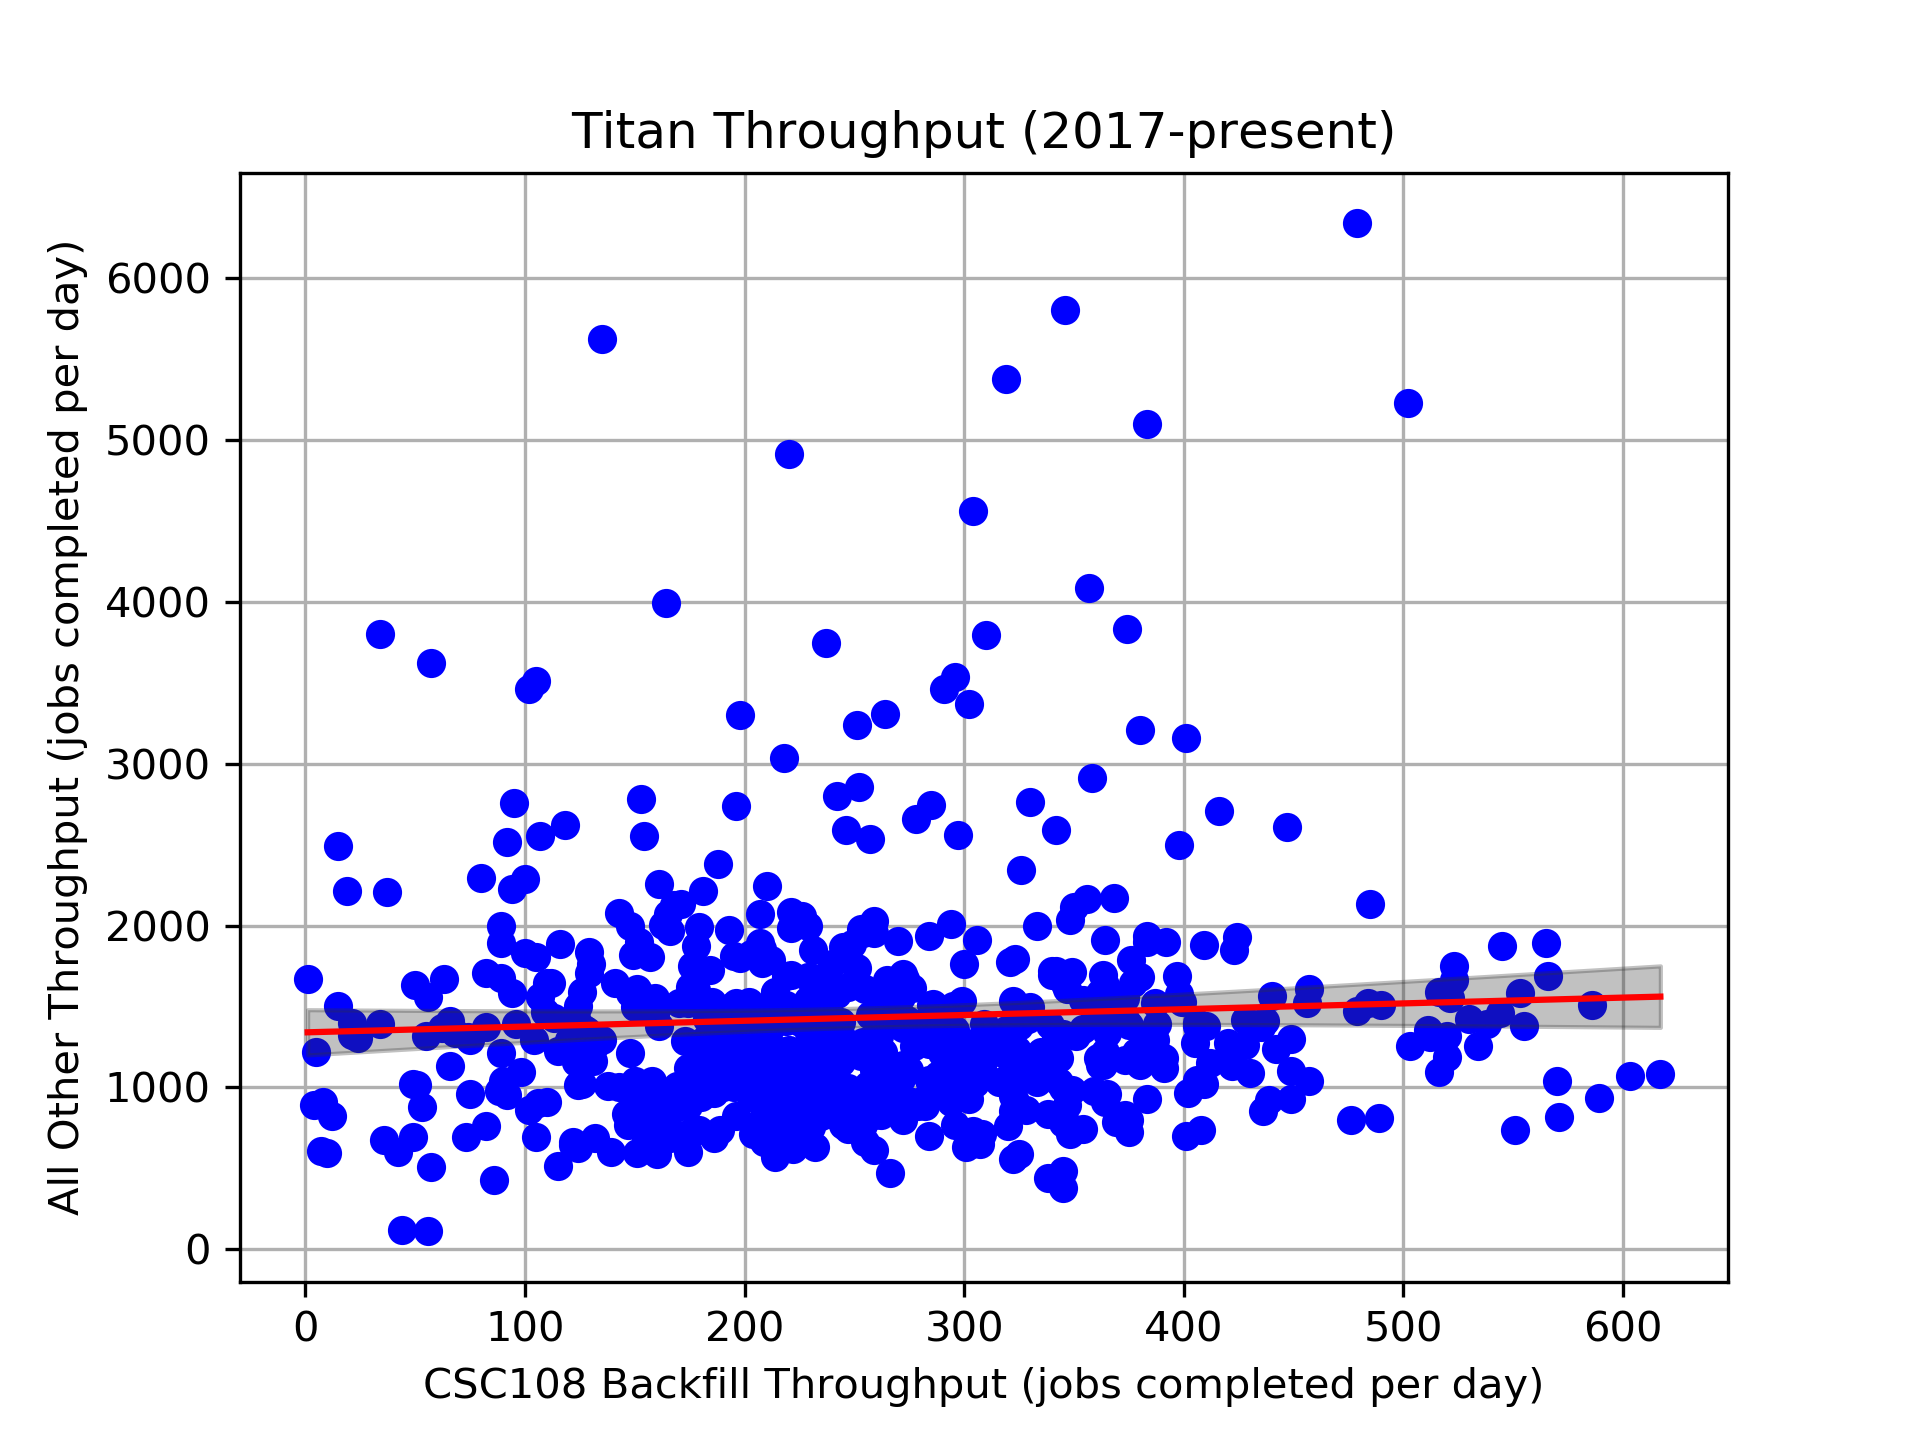
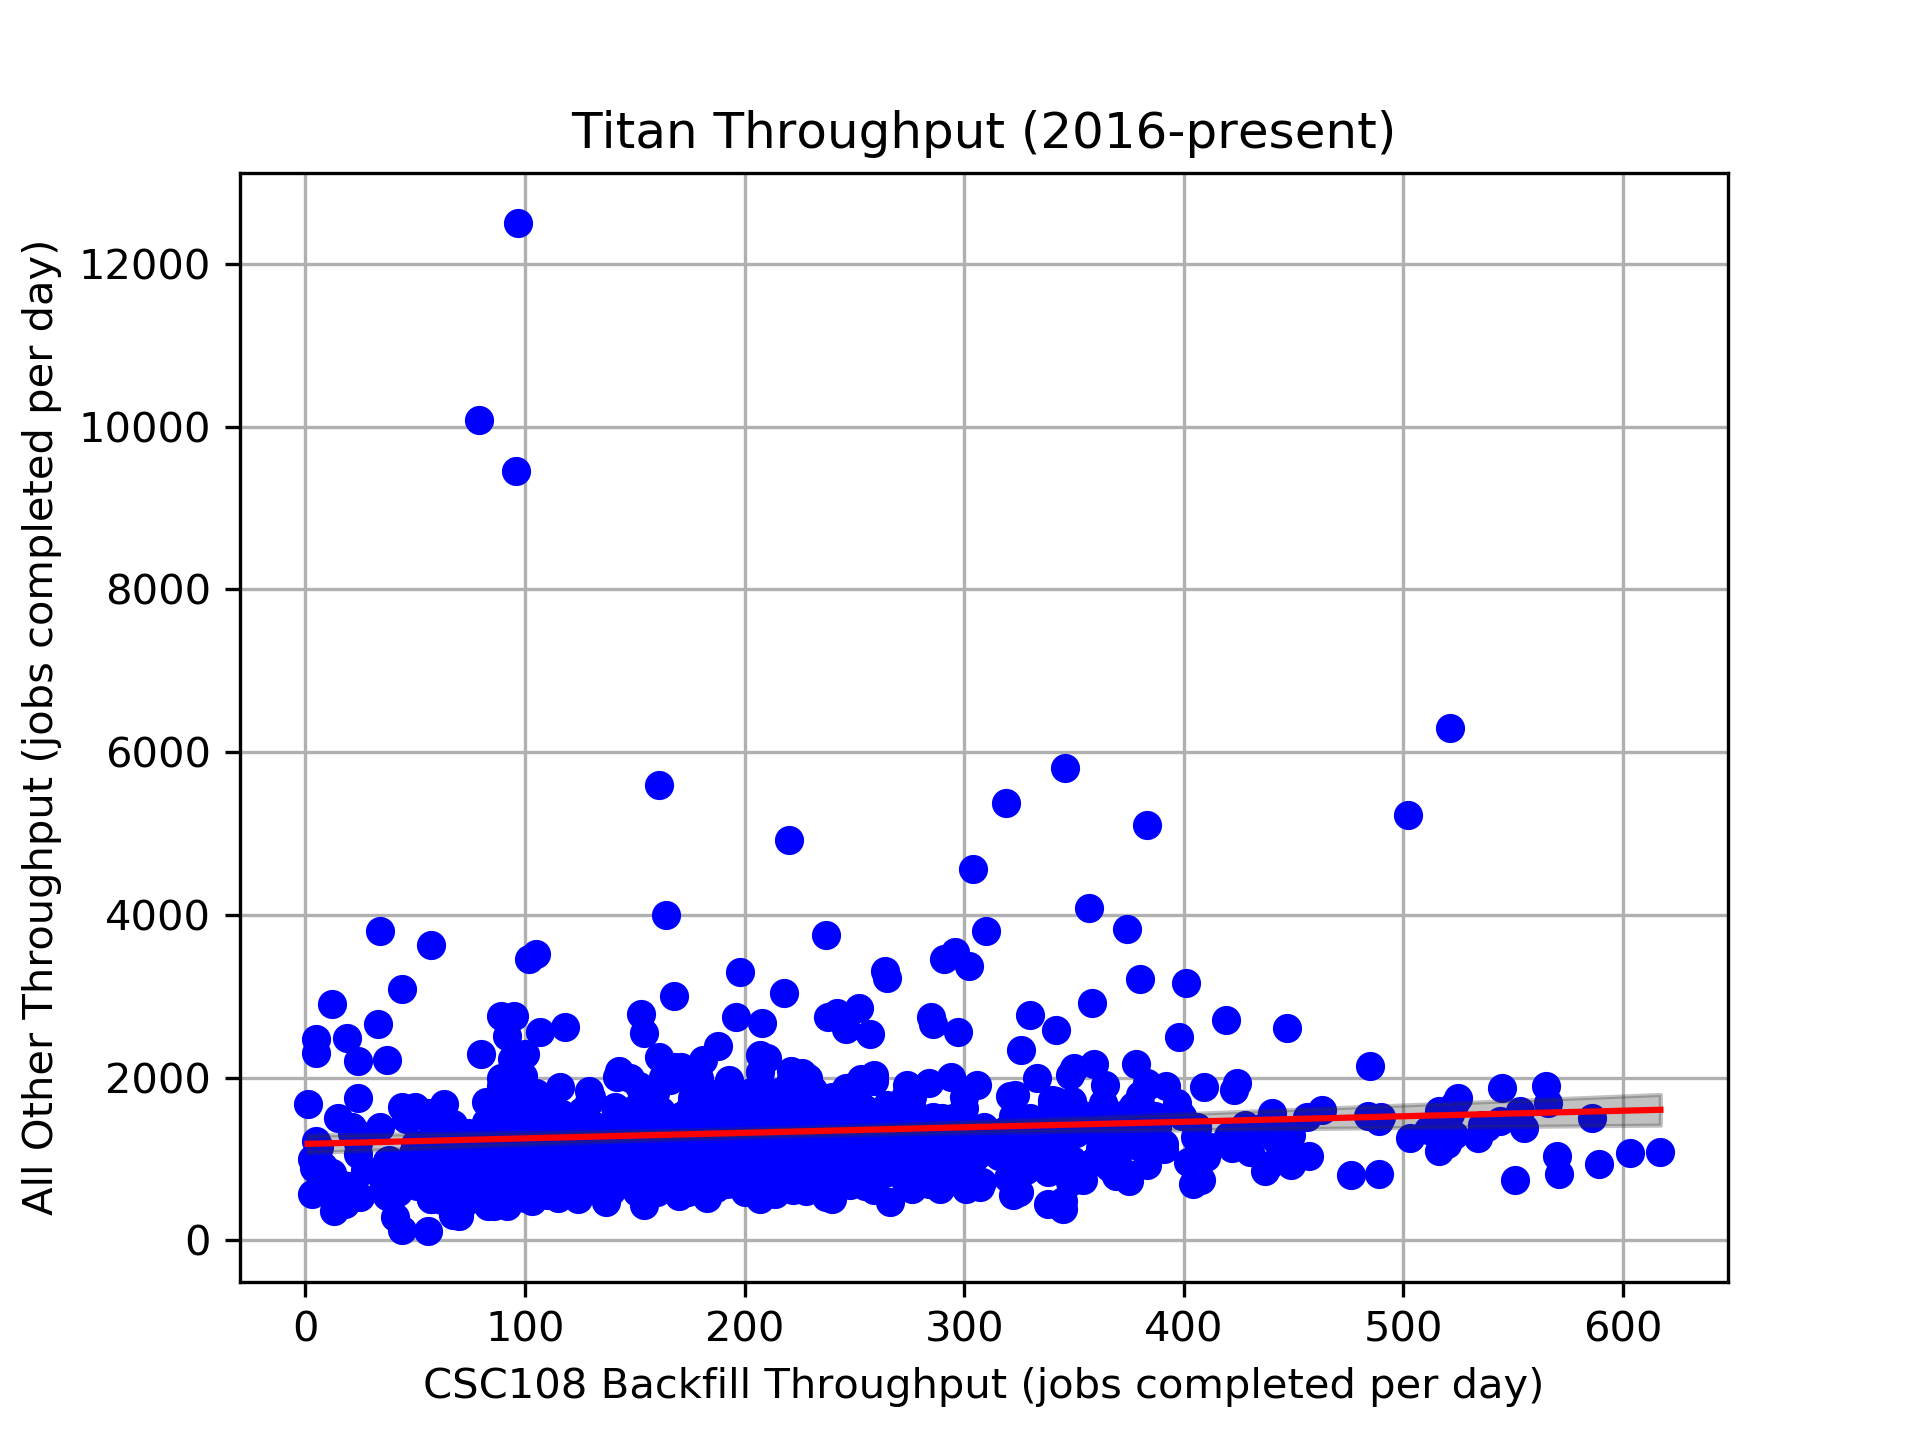
Updates, especially for the "new" 2016 data

diff --git a/performance.tex b/performance.tex
@@ -4,7 +4,7 @@
 %
 %   This is the fourth section of the paper.
 %
-%                                                   ~~ last updated 29 Nov 2018
+%                                                   ~~ last updated 03 Dec 2018
 
 %Availability note: code supporting this section is available at
 %\url{https://github.com/ATLAS-Titan/moab-data}. 
@@ -51,7 +51,7 @@ results from several ongoing studies.
 \caption{This bar plot visualizes the yearly utilization of Titan core hours,
 separated into two categories: utilization of Titan core hours through backfill
 opportunities by CSC108, and all other utilization of core hours on Titan. The
-data for 2018 are incomplete; they cover from January 1, 2018 to September 1,
+data for 2018 are incomplete; they cover from January 1, 2018 to October 15,
 2018.}
 \label{fig:jacks-slide}
 \end{figure*}
@@ -125,19 +125,19 @@ other Python scripts to import these files' sample data into SQLite. These
 tables contain data about the exact state of the queues at given times,
 including active jobs, blocked jobs, eligible jobs, recently completed jobs,
 and system information such as active nodes and available backfill
-opportunities. We then supplemented these live samples with monthly usage data
-and historical job traces obtained from ORNL. The monthly usage data span from
-January 2016 to September 2018 and contain only the total hours available,
-total hours consumed by all projects, and total hours consumed by CSC108. The
-job trace data span from January 2017 to October 2018 and contain only job
-submission time, start time, completion time, requested nodes, and requested
-wall time, for all jobs not due to the PanDA team. Besides CSC108, the PanDA
-team has two other PanDA projects on Titan, which are HEP110 and HEP113, both
-of which use PanDA to submit jobs with the increased priority of their ALCC
-allocations. Thus, traces for the PanDA jobs contain additional fields for
-account name, job name, and user name to distinguish the backfill jobs from the
-``direct mode'' jobs. Finally, we analyzed the SQLite data in Python using the
-well-known Matplotlib, NumPy, and SciPy libraries via Anaconda.
+opportunities. We then supplemented these live samples with daily availability
+data and historical job traces obtained from ORNL. The daily availability data
+span from January 1, 2016 to October 18, 2018 and contain only the total Titan
+core hours that were available each day. The historical job trace data span
+from January 1, 2016 to October 15, 2018 and contain only job submission time,
+start time, completion time, requested nodes, and requested wall time, for all
+jobs not due to the PanDA team. Besides CSC108, the PanDA team has two other
+PanDA projects on Titan, which are HEP110 and HEP113, both of which use PanDA
+to submit jobs with the increased priority of their ALCC allocations. Thus,
+traces for the PanDA jobs contain additional fields for account name, job name,
+and user name to distinguish the backfill jobs from the ``direct mode'' jobs.
+Finally, we analyzed the SQLite data in Python using the well-known Matplotlib,
+NumPy, and SciPy libraries via Anaconda.
 
 %%%%%%%%%%%%%%%%%%%%%%%%%%%%%%%%%%%%%%%%%%%%%%%%%%%%%%%%%%%%%%%%%%%%%%%%%%%%%%%%
 \subsection{Wait Times}
@@ -180,7 +180,11 @@ considering jobs' requested wall times.
 An interesting opportunity arose during July 2018 following the end of a large
 simulation campaign by ATLAS, because CSC108 submitted zero backfill jobs for
 14 consecutive days. For convenience, we have called this the ``dormant
-period''.
+period''. This unusually long dormant period allows comparison of the system
+when CSC108 is running versus the system when CSC108 is completely absent.
+
+CSC108 had consumed an average of 7.5 million Titan core hours every
+weeks during the first six months of 2018.
 
 \textbf{Keep going.}
 
@@ -209,10 +213,10 @@ in Figures~\ref{fig:throughput-all}, \ref{fig:throughput-bin3},
 \hline\noalign{\smallskip}
 Figure  &   Bin & Slope   & Intercept   \\
 \noalign{\smallskip}\hline\noalign{\smallskip}
-\ref{fig:throughput-all}    &   All &   0.3178  &   1351.1063   \\
-\ref{fig:throughput-bin3}   &   3   &   -0.7029 &   1742.0276   \\
-\ref{fig:throughput-bin4}   &   4   &   2.9256  &   1614.8481   \\
-\ref{fig:throughput-bin5}   &   5   &   0.2148  &   1433.2388   \\
+\ref{fig:throughput-all}    &   All &   0.6797  &   1184.1510   \\
+\ref{fig:throughput-bin3}   &   3   &  -0.7029  &   1742.0276   \\
+\ref{fig:throughput-bin4}   &   4   &   5.7949  &   1427.9643   \\
+\ref{fig:throughput-bin5}   &   5   &   0.6200  &   1249.8151   \\
 \noalign{\smallskip}\hline
 \end{tabular}
 \end{table}
@@ -221,7 +225,7 @@ All four of the models share common parameters, which can be viewed in
 Table~\ref{tab:throughput-params}. Each model has a small magnitude slope in
 relation to the magnitude of its Y intercept, which indicates that the impact
 of increased throughput by CSC108 is small in each model. Each model appears to
-be a relatively flat line positioned at approximately 1500 jobs completed per
+be a relatively flat line positioned at approximately 1400 jobs completed per
 day on Titan.
 
 These results are consistent with our intuition about the behavior of Titan
@@ -232,10 +236,10 @@ run a leadership class job in the future. Moab will only schedule jobs to run
 on those now-idle nodes if they will complete before the leadership class job's
 reservation begins. Thus, just before large jobs, which decrease overall
 throughput, run on Titan, more backfill opportunities arise for small jobs,
-which increase throughput; this effect helps Titan maintain a high level of
-overall throughput. Because PanDA submits jobs of different sizes according to
-available backfill opportunity, CSC108's throughput minimally impacts Titan's
-overall throughput.
+which increase throughput; this effect helps Titan maintain its overall level
+of throughput. Because PanDA submits jobs of different sizes according to
+available backfill opportunity, as shown in Figure~\ref{fig:time-vs-nodes},
+CSC108's throughput minimally impacts Titan's overall throughput.
 
 % For two-column wide figures use
 \begin{figure*}
@@ -304,10 +308,10 @@ Table~\ref{tab:utilization-params}.
 \hline\noalign{\smallskip}
 Figure  &   Bin & Slope   & Intercept   \\
 \noalign{\smallskip}\hline\noalign{\smallskip}
-\ref{fig:utilization-all}    &   All &  -0.5707 &   93.7360 \\
-\ref{fig:utilization-bin3}   &   3   &  -0.9372 &   93.1175 \\
-\ref{fig:utilization-bin4}   &   4   &  -0.9908 &   92.7168 \\
-\ref{fig:utilization-bin5}   &   5   &  4.2480  &   87.3287 \\
+\ref{fig:utilization-all}    &   All &  -0.5079 &   93.2965 \\
+\ref{fig:utilization-bin3}   &   3   &  -0.8270 &   92.6575 \\
+\ref{fig:utilization-bin4}   &   4   &  -1.1121 &   92.8737 \\
+\ref{fig:utilization-bin5}   &   5   &  3.9084  &   88.1362 \\
 \noalign{\smallskip}\hline
 \end{tabular}
 \end{table}
@@ -318,14 +322,14 @@ models is not like the others. Although three of the models have very similar
 negative slopes and Y intercepts, the model for CSC108's utilization of bin 5
 has a positive slope and a Y intercept that is much more interesting.
 
-Titan's overall utilization from January 1, 2017 to September 1, 2018 was
-91.1\%, as shown in Figure~\ref{fig:jacks-slide}, and during this same time
+Titan's overall utilization from January 1, 2017 to October 1, 2018 was
+91.9\%, as shown in Figure~\ref{fig:jacks-slide}, and during this same time
 period, CSC108's utilization of Titan was about 3.5\%. Given the original
 assumption by the project that CSC108 uses only time-sensitive resources which
 would have otherwise gone to waste, the natural conclusion is that CSC108's
 utilization represents a pure increase in overall utilization, and therefore
-that Titan's utilization without CSC108 would have been 87.6\%. By way of
-comparison, the bin 5 model predicts this value to be 87.3\%, which is
+that Titan's utilization without CSC108 would have been 88.4\%. By way of
+comparison, the bin 5 model predicts this value to be 88.1\%, which is
 surprisingly close for such a simple model. The bin 5 model also intercepts
 100\% Titan utilization when CSC108 bin 5 utilization is almost exactly 3\%,
 which is a feasible number that is similar to the observed overall utilization
@@ -334,7 +338,7 @@ by CSC108 of 3.5\%.
 The similarity of the parameters of the bin 5 model to the observed values in
 the data suggests that Titan's overall utilization is more sensitive to
 CSC108's utilization of bin 5 jobs, which are the smallest jobs that run on
-Titan. The slope of the bin 5 model is harder to interpret. A slope of 4.2480
+Titan. The slope of the bin 5 model is harder to interpret. A slope of 3.9084
 in the model suggests that a 1\% increase in utilization by CSC108 in bin 5
 results in a roughly 4\% increase in overall utilization. Obviously, a 1\%
 increase by CSC108 can only directly result in a 1\% overall increase, but
